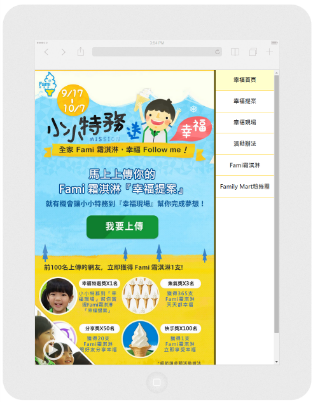
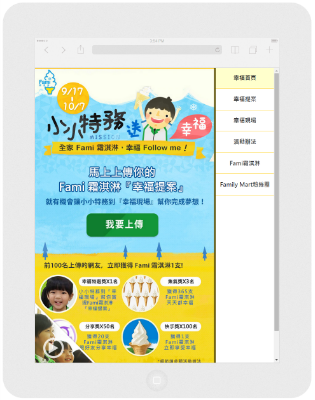
event family rwd

Changed region(s): [[0.0857, 0.15, 0.8857, 0.93], [0.1143, 0.09, 0.1429, 0.12]]

diff --git a/cythilya/cythilya/Controllers/MeController.cs b/cythilya/cythilya/Controllers/MeController.cs
@@ -879,7 +879,10 @@ namespace cythilya.Controllers
             proj_10.ClientURL = "http://www.family.com.tw/Marketing/index.aspx";
             proj_10.Date = "Sept - Oct 2014";
             proj_10.LauchURL = "";
-            proj_10.HtmlContent = "<p>全家Fami霜淇淋 - 小小特務送幸福。</p>";
+
+            var demoRUL = "/Content/me/img/project/eventfamily/eventFamily.gif";
+
+            proj_10.HtmlContent = "<p> 只要在2014/10/7前上傳你的全家Fami霜淇淋『幸福提案』，就有機會讓小小特務親自到『幸福現場』完成你的夢想，還有機會贏得365支Fami霜淇淋，讓你天天都幸福！</p><p><img src=" + "/Content/me/img/project/eventfamily/event_family_tablet_mobile_320.png" + "></p><p>RWD(Responsive Web Design)，支援平板、手機等行動裝置瀏覽。</p><p>Demo影片如下。</p><p><a href=" + demoRUL + " target=" + "_blank" + "><img src=" + demoRUL + " width=" + 320 + "></a></p>";
             proj_10.Tag = "Web SEO RWD";
             proj_10.isHighlight = true;
 
